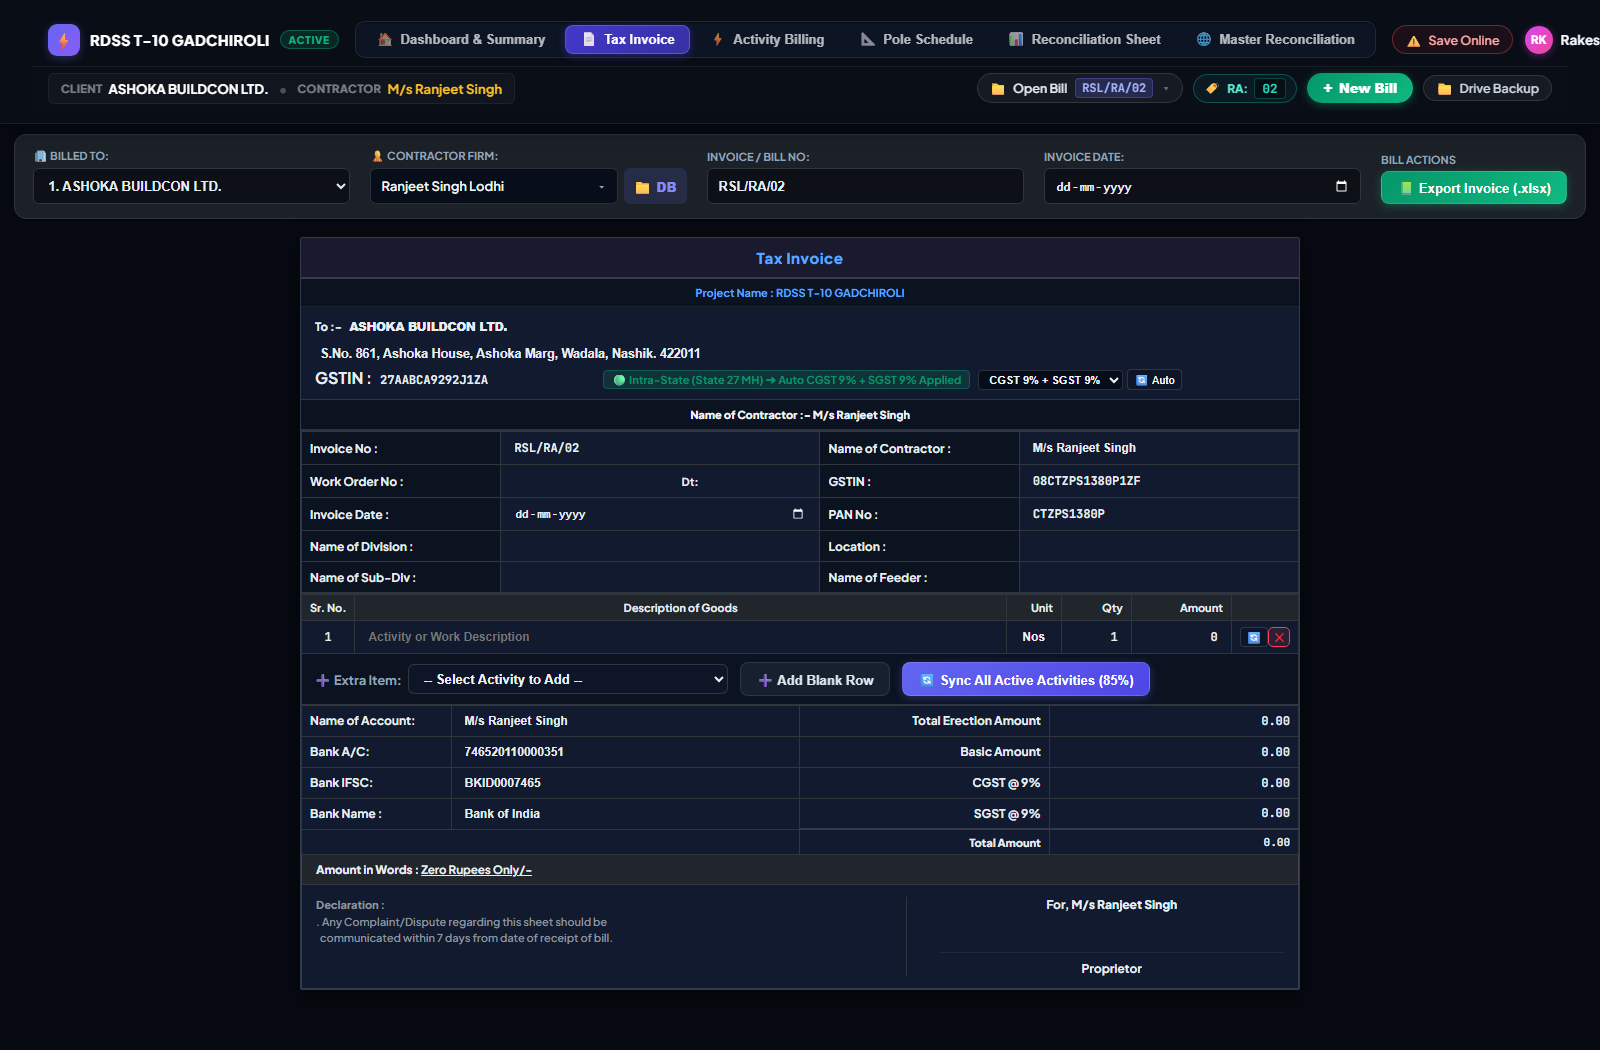
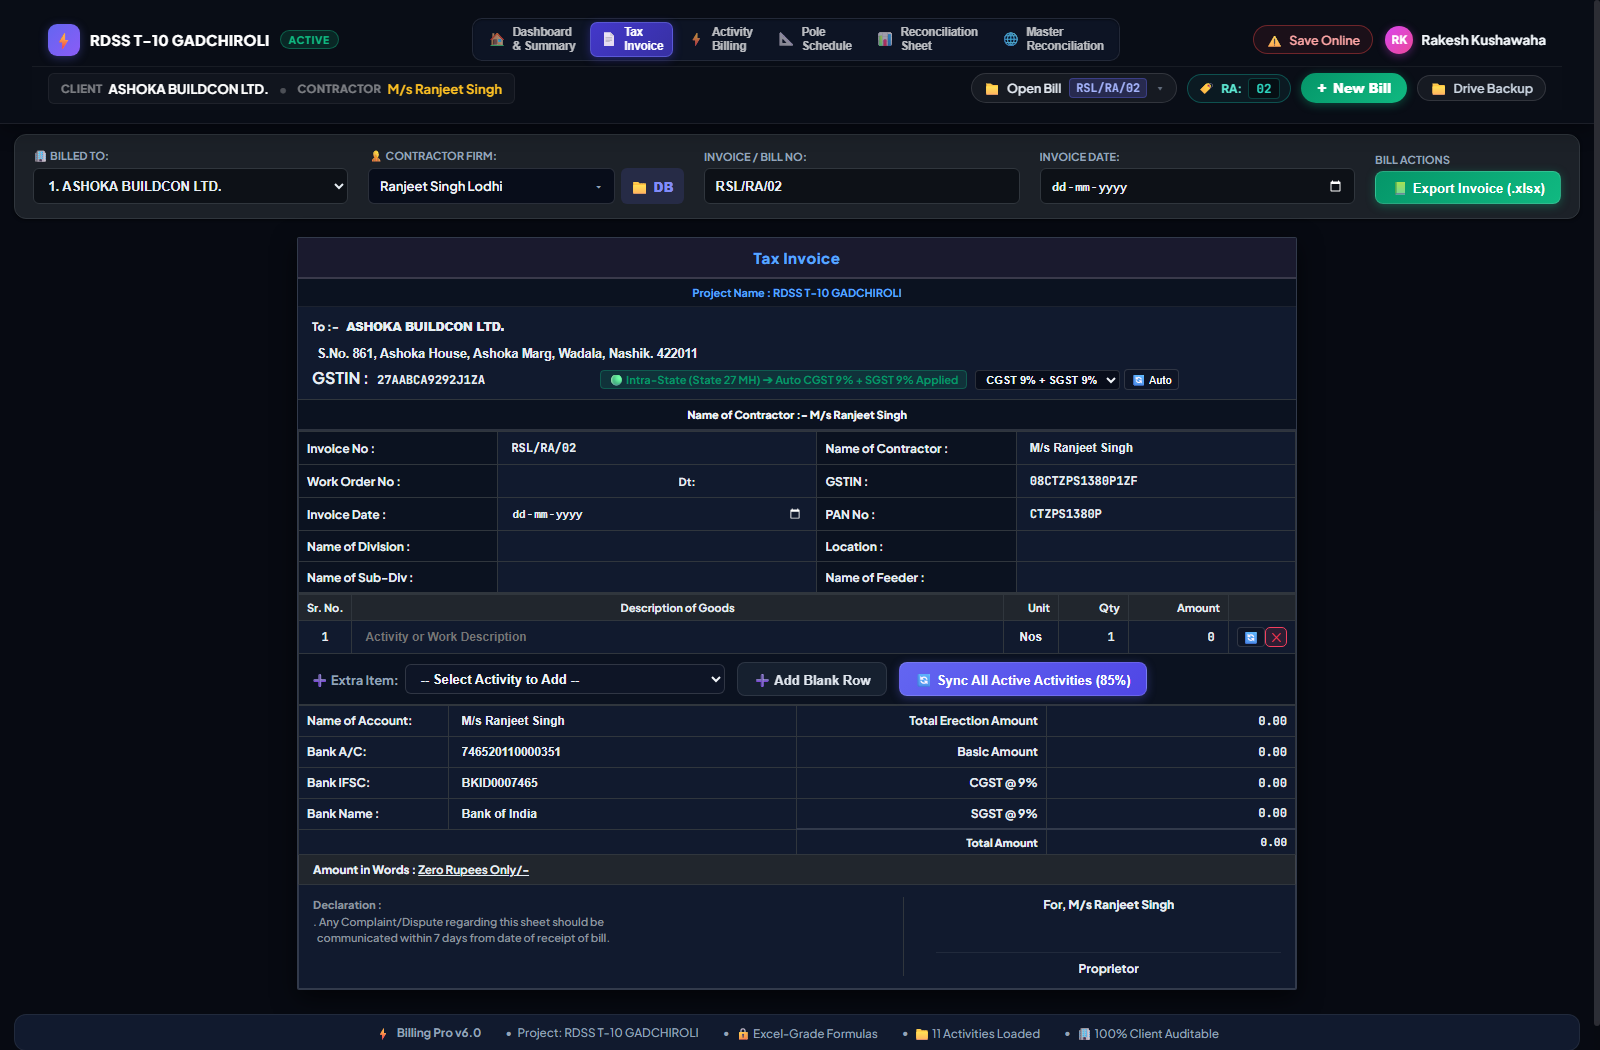
fix(masterrecon,navbar): fix master reconciliation data display and scope header sub-bar cleanly per view

diff --git a/index.html b/index.html
@@ -124,55 +124,99 @@
                         </div>
                     </div>
 
-                    <!-- Row 2: Sub-bar Context & Bill Actions -->
+                    <!-- Row 2: Sub-bar Context & Bill Actions (Cleanly scoped per active view) -->
                     <div class="saas-nav-row-sub">
-                        <!-- Left: Client & Contractor Meta -->
-                        <div class="sub-context-cluster">
-                            <span class="context-lbl">CLIENT</span>
-                            <span class="context-val">{{ projectMeta.clientName || 'ASHOKA BUILDCON LTD.' }}</span>
-                            <span class="context-sep">•</span>
-                            <span class="context-lbl">CONTRACTOR</span>
-                            <span class="context-val contractor-amber" @click="openSavedBillsManager('database')" title="Assigned Contractor (Click to switch)">
-                                {{ getContractorDisplayName() || 'M/s Ranjeet Singh' }}
-                            </span>
-                        </div>
-
-                        <!-- Right: Bill Controls (Open Bill, RA No, + New Bill, Drive Backup) -->
-                        <div class="sub-actions-cluster">
-                            <!-- Open Bill Pill -->
-                            <div class="saas-pill open-bill-pill" @click="openSavedBillsManager('database')" title="Search or Open Saved Bills (Click / ⌘K)">
-                                <span>📁</span>
-                                <span>Open Bill</span>
-                                <span class="bill-id-chip">{{ effectiveBillNo || 'RSL/RA/02' }}</span>
-                                <span class="dropdown-chevron">▾</span>
+                        <!-- 🌐 Context 1: Master Multi-Contractor Reconciliation Hub -->
+                        <template v-if="currentView === 'masterrecon'">
+                            <div class="sub-context-cluster">
+                                <span class="context-lbl">PROJECT</span>
+                                <span class="context-val">{{ projectMeta.projectName || 'RDSS T-10 GADCHIROLI' }}</span>
+                                <span class="context-sep">•</span>
+                                <span class="context-lbl">AUDIT SCOPE</span>
+                                <span class="context-val contractor-amber">ALL 62 CONTRACTOR PACKAGES</span>
+                                <span class="context-sep">•</span>
+                                <span class="context-lbl">PORTAL</span>
+                                <span class="context-val" style="color: #818cf8; font-weight: 700;">CROSS-PROJECT RECONCILIATION & LIABILITY HUB</span>
                             </div>
-
-                            <!-- RA No Pill -->
-                            <div class="saas-pill ra-pill" title="Current RA Bill Number. Click to edit.">
-                                <span>🏷</span>
-                                <span class="ra-label">RA:</span>
-                                <input type="text"
-                                    :value="effectiveRaNo"
-                                    @input="updateRaNo($event.target.value)"
-                                    placeholder="02"
-                                    title="RA Bill No"
-                                    class="ra-input font-mono">
+                            <div class="sub-actions-cluster">
+                                <span class="saas-pill" style="pointer-events: none; opacity: 0.95; background: rgba(99, 102, 241, 0.12); border-color: rgba(99, 102, 241, 0.3); color: #a5b4fc;">
+                                    <span>🌐</span>
+                                    <span>Global Audit Scope</span>
+                                </span>
+                                <span class="saas-pill" style="pointer-events: none; opacity: 0.95; background: rgba(16, 185, 129, 0.12); border-color: rgba(16, 185, 129, 0.3); color: #6ee7b7;">
+                                    <span>📦</span>
+                                    <span>62 Packages Tracked</span>
+                                </span>
                             </div>
+                        </template>
 
-                            <!-- Vibrant Emerald Primary CTA: + New Bill -->
-                            <button class="btn-new-bill-emerald" @click="openNewBillModal" title="Naya Bill / RA Bill banayein">
-                                <span class="plus-sign">+</span>
-                                <span>New Bill</span>
-                            </button>
-
-                            <!-- Google Drive Backup Pill -->
-                            <div class="saas-pill drive-pill-btn"
-                                @click="hasDriveConnected ? manualSaveBillToDrive() : openGDriveModal()"
-                                :title="hasDriveConnected ? 'Google Drive Connected! Click to save bill workbook.' : 'Connect Google Drive'">
-                                <span>📁</span>
-                                <span>Drive Backup</span>
+                        <!-- 🏠 Context 2: Executive Dashboard Landing Page -->
+                        <template v-else-if="currentView === 'dashboard' || currentView === 'summary'">
+                            <div class="sub-context-cluster">
+                                <span class="context-lbl">CLIENT</span>
+                                <span class="context-val">{{ projectMeta.clientName || 'ASHOKA BUILDCON LTD.' }}</span>
+                                <span class="context-sep">•</span>
+                                <span class="context-lbl">ACTIVE WORKBOOK</span>
+                                <span class="context-val contractor-amber" @click="openSavedBillsManager('database')" title="Current active contractor workbook (Click to switch)">
+                                    {{ getContractorDisplayName() || 'M/s Ranjeet Singh' }}
+                                </span>
+                                <span class="context-sep">•</span>
+                                <span class="context-val" style="color: #94a3b8; font-size: 0.76rem;">({{ effectiveBillNo || 'RSL/RA/02' }})</span>
                             </div>
-                        </div>
+                            <div class="sub-actions-cluster">
+                                <div class="saas-pill open-bill-pill" @click="openSavedBillsManager('database')" title="Search or Open Saved Bills (Click / ⌘K)">
+                                    <span>📁</span>
+                                    <span>Open Bill</span>
+                                    <span class="bill-id-chip">{{ effectiveBillNo || 'RSL/RA/02' }}</span>
+                                    <span class="dropdown-chevron">▾</span>
+                                </div>
+                                <button class="btn-new-bill-emerald" @click="openNewBillModal" title="Naya Bill / RA Bill banayein">
+                                    <span class="plus-sign">+</span>
+                                    <span>New Bill</span>
+                                </button>
+                            </div>
+                        </template>
+
+                        <!-- 📄 Context 3: Bill Workbook Editing (Invoice, Activity, Pole Schedule, Reco Sheet) -->
+                        <template v-else>
+                            <div class="sub-context-cluster">
+                                <span class="context-lbl">CLIENT</span>
+                                <span class="context-val">{{ projectMeta.clientName || 'ASHOKA BUILDCON LTD.' }}</span>
+                                <span class="context-sep">•</span>
+                                <span class="context-lbl">CONTRACTOR</span>
+                                <span class="context-val contractor-amber" @click="openSavedBillsManager('database')" title="Assigned Contractor (Click to switch)">
+                                    {{ getContractorDisplayName() || 'M/s Ranjeet Singh' }}
+                                </span>
+                            </div>
+                            <div class="sub-actions-cluster">
+                                <div class="saas-pill open-bill-pill" @click="openSavedBillsManager('database')" title="Search or Open Saved Bills (Click / ⌘K)">
+                                    <span>📁</span>
+                                    <span>Open Bill</span>
+                                    <span class="bill-id-chip">{{ effectiveBillNo || 'RSL/RA/02' }}</span>
+                                    <span class="dropdown-chevron">▾</span>
+                                </div>
+                                <div class="saas-pill ra-pill" title="Current RA Bill Number. Click to edit.">
+                                    <span>🏷</span>
+                                    <span class="ra-label">RA:</span>
+                                    <input type="text"
+                                        :value="effectiveRaNo"
+                                        @input="updateRaNo($event.target.value)"
+                                        placeholder="02"
+                                        title="RA Bill No"
+                                        class="ra-input font-mono">
+                                </div>
+                                <button class="btn-new-bill-emerald" @click="openNewBillModal" title="Naya Bill / RA Bill banayein">
+                                    <span class="plus-sign">+</span>
+                                    <span>New Bill</span>
+                                </button>
+                                <div class="saas-pill drive-pill-btn"
+                                    @click="hasDriveConnected ? manualSaveBillToDrive() : openGDriveModal()"
+                                    :title="hasDriveConnected ? 'Google Drive Connected! Click to save bill workbook.' : 'Connect Google Drive'">
+                                    <span>📁</span>
+                                    <span>Drive Backup</span>
+                                </div>
+                            </div>
+                        </template>
                     </div>
                 </header>
 
@@ -181,7 +225,7 @@
                     <main class="center-content">
                         <div class="main-container">
                             <!-- Lock Status Alert Ribbon when Bill is Finalized -->
-                            <div v-if="isFinalized" class="no-print"
+                            <div v-if="isFinalized && currentView !== 'dashboard' && currentView !== 'summary' && currentView !== 'masterrecon'" class="no-print"
                                 style="margin-bottom: 1.25rem; background: rgba(239, 68, 68, 0.12); border: 1px solid #ef4444; color: #b91c1c; padding: 0.75rem 1.25rem; border-radius: 8px; display: flex; justify-content: space-between; align-items: center; font-weight: 600; font-size: 0.88rem;">
                                 <div style="display: flex; align-items: center; gap: 0.5rem;">
                                     <span style="font-size: 1.1rem;">🔒</span>
@@ -1667,8 +1711,9 @@
                                 <span>Reset</span>
                             </button>
                         </div>
+                    </div>
 
-                        <!-- Right: Reverse Mode, Filter & Excel Export -->
+                    <!-- Right: Reverse Mode, Filter & Excel Export -->
                     <div style="display: flex; align-items: center; gap: 8px; flex-wrap: wrap;">
                         
 
@@ -1860,7 +1905,7 @@
             </div>
 
         <!-- Footer Info Bar -->
-        <div class="footer-info-strip no-print">
+        <div class="footer-info-strip no-print" v-if="currentView !== 'masterrecon'">
             <div class="fi-item">
                 <span>⚡</span>
                 <strong>Billing Pro v6.0</strong>

diff --git a/server.js b/server.js
@@ -29,8 +29,8 @@ app.use((req, res, next) => {
   let p = '';
   try { p = decodeURI(req.url); } catch(e) { p = req.url; }
   if (p.startsWith('/Reconciliation master')) {
-    if (p.includes('data.js') || p.includes('data.json') || p.includes('upload.php')) {
-      return res.status(403).send('Forbidden: Sensitive dataset is protected.');
+    if (p.includes('upload.php')) {
+      return res.status(403).send('Forbidden: PHP execution disabled.');
     }
     return express.static(path.join(__dirname, 'Reconciliation master'))(
       Object.assign(req, { url: p.replace('/Reconciliation master', '') || '/' }),
